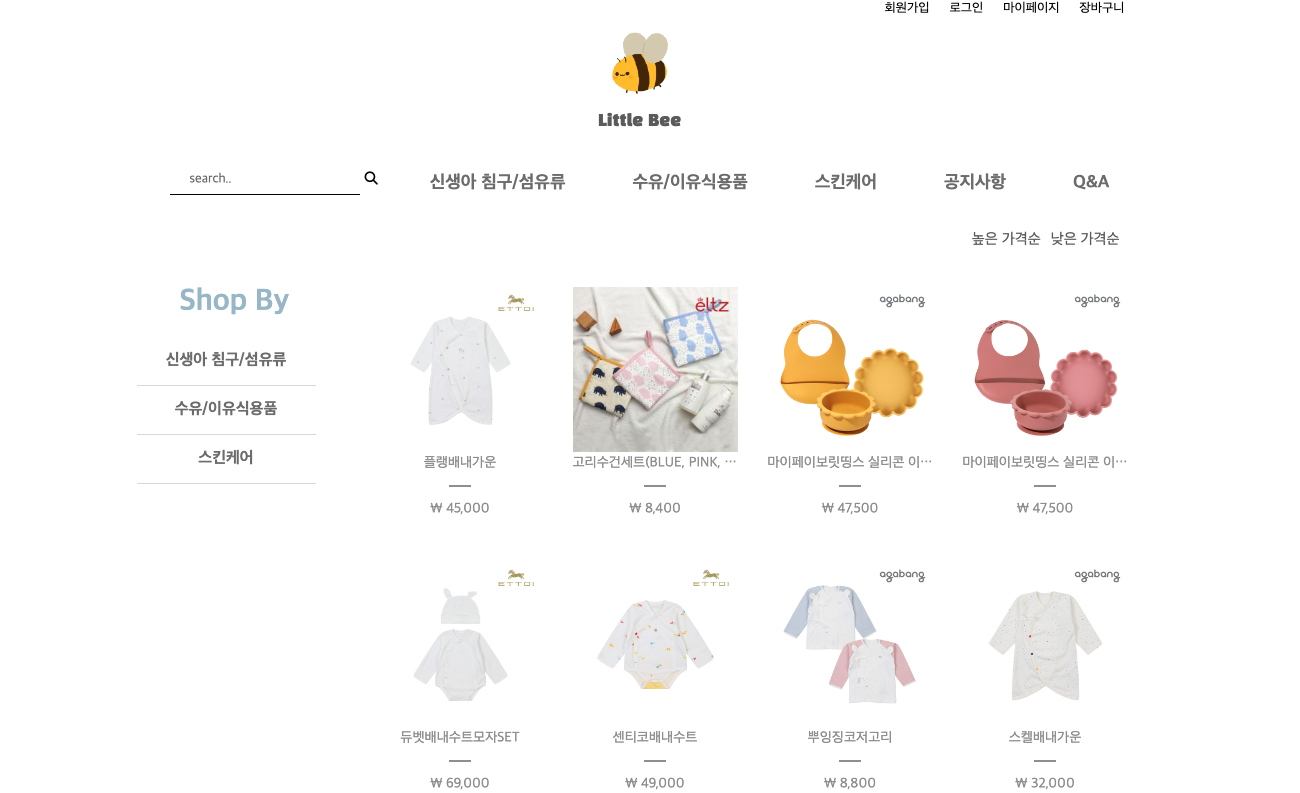
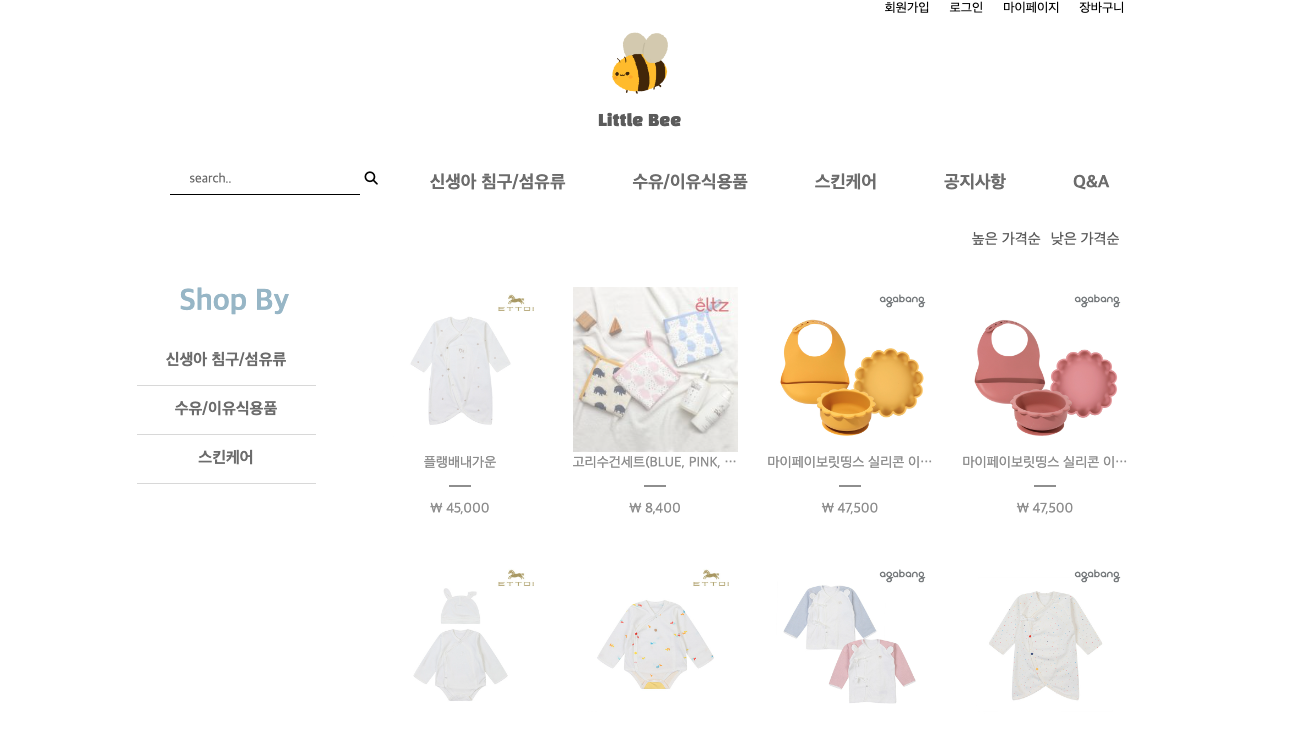
css 수정

diff --git a/_sass/_base.scss b/_sass/_base.scss
@@ -230,13 +230,13 @@ p {
             .project-img {
               box-shadow: 7px 7px 15px rgba(128, 128, 128, 0.732);
               width: 185px;
-              height: 120px;
+              height: 105px;
               margin-right: 8px;
               margin-bottom: 12px;
               a {
                   display: block;
                   width: 185px;
-                  height: 120px;
+                  height: 105px;
                   border-radius: 8px;
                   transition: 0.4s;
                   img {
